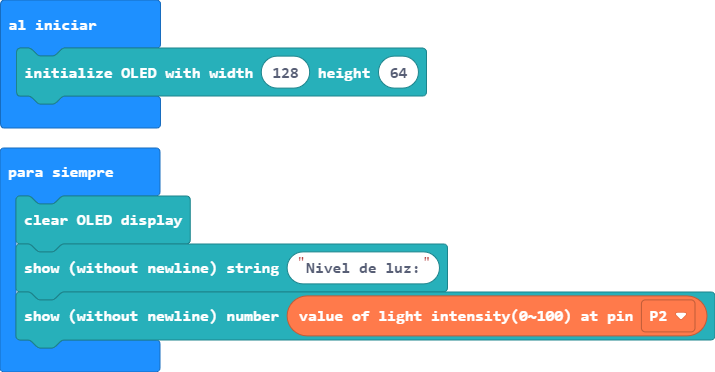
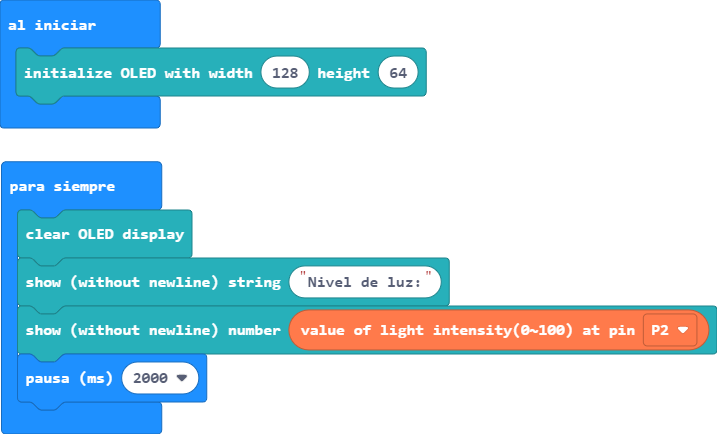
Añadida una pausa de 2 segundos entre lecturas

diff --git a/main.ts b/main.ts
@@ -3,4 +3,5 @@ basic.forever(function () {
     OLED.clear()
     OLED.writeString("Nivel de luz:")
     OLED.writeNum(Environment.ReadLightIntensity(AnalogPin.P2))
+    basic.pause(2000)
 })
